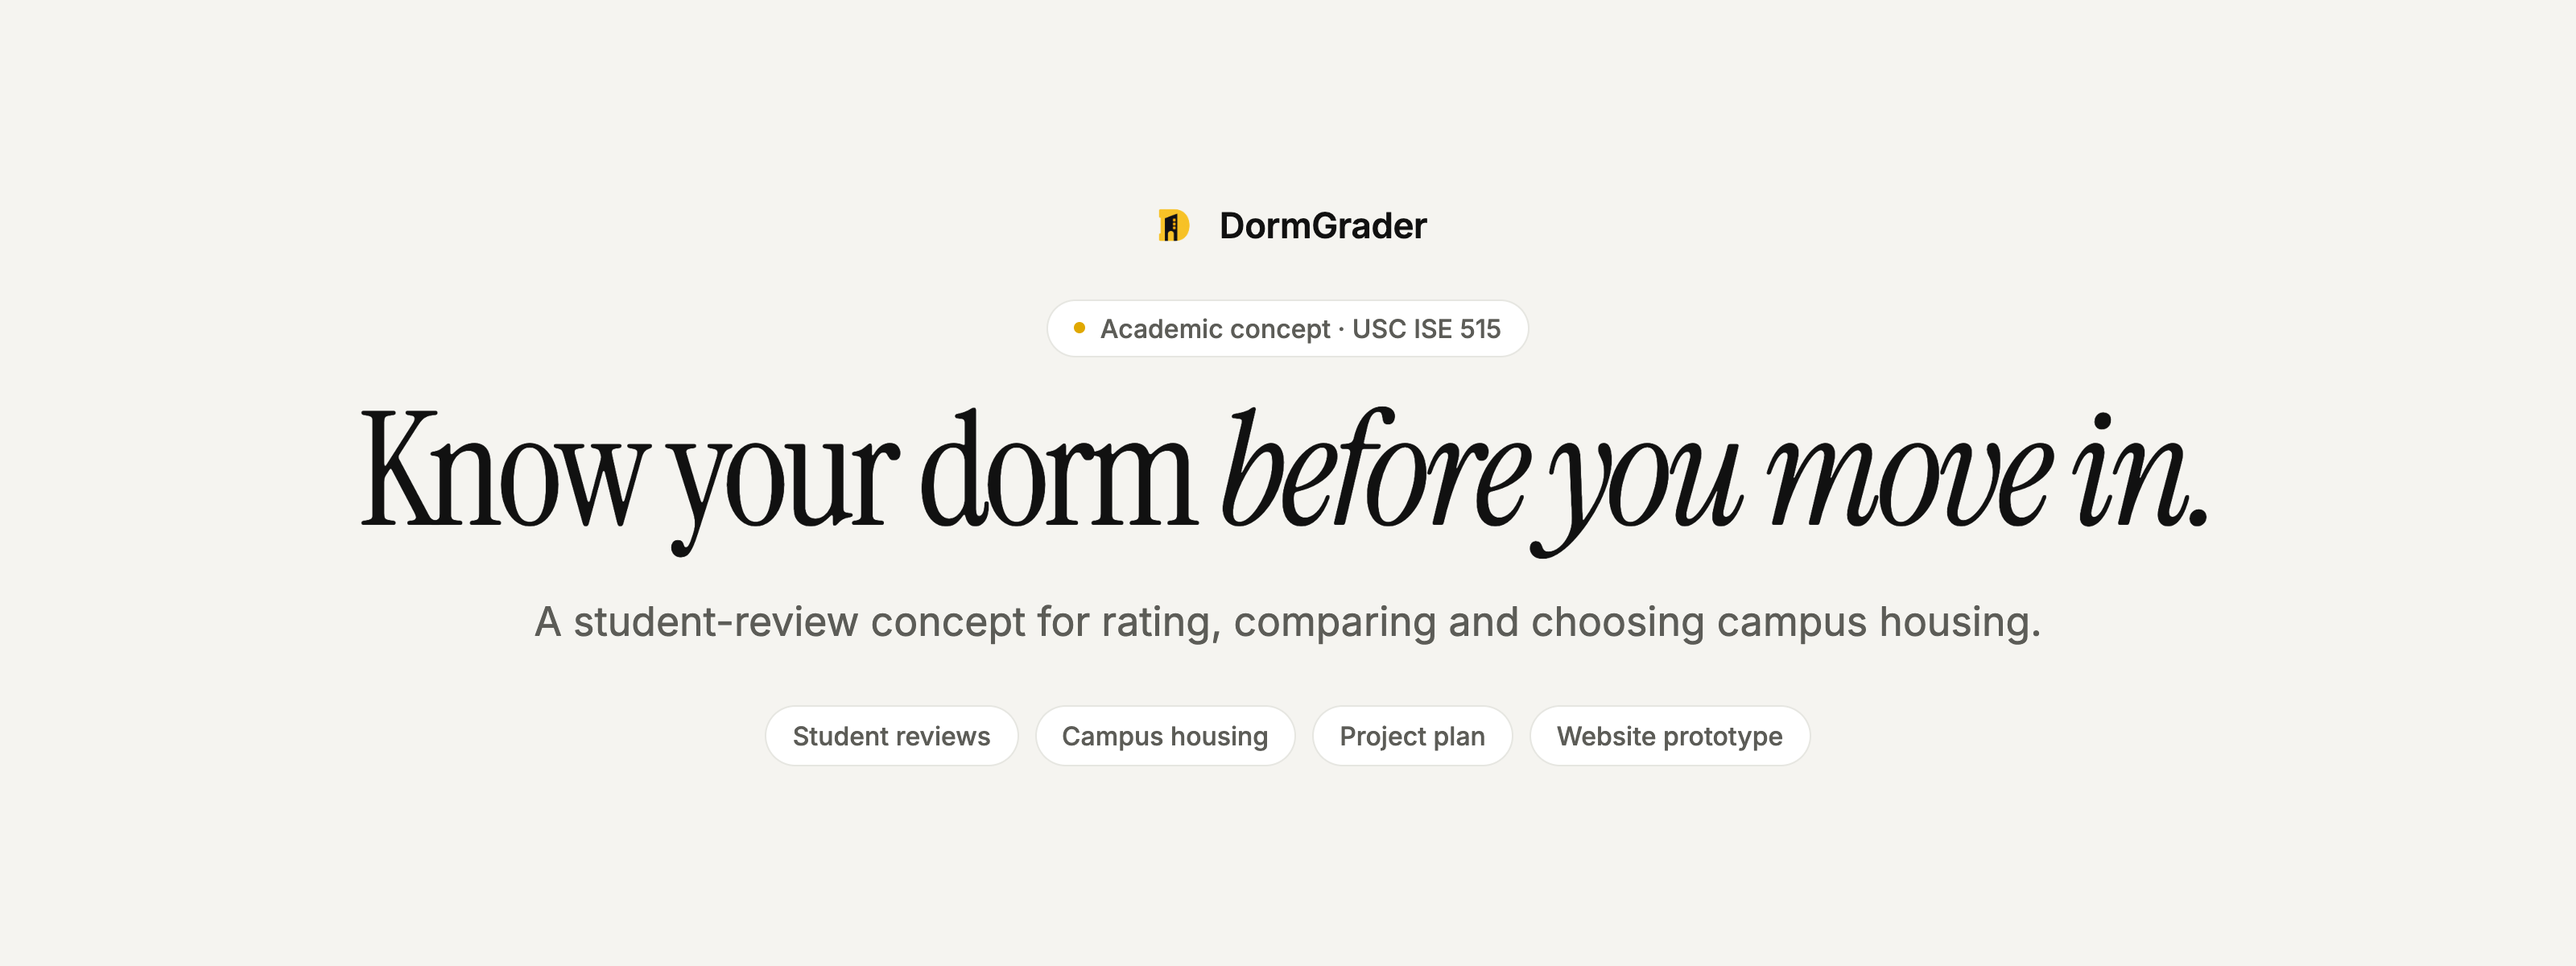
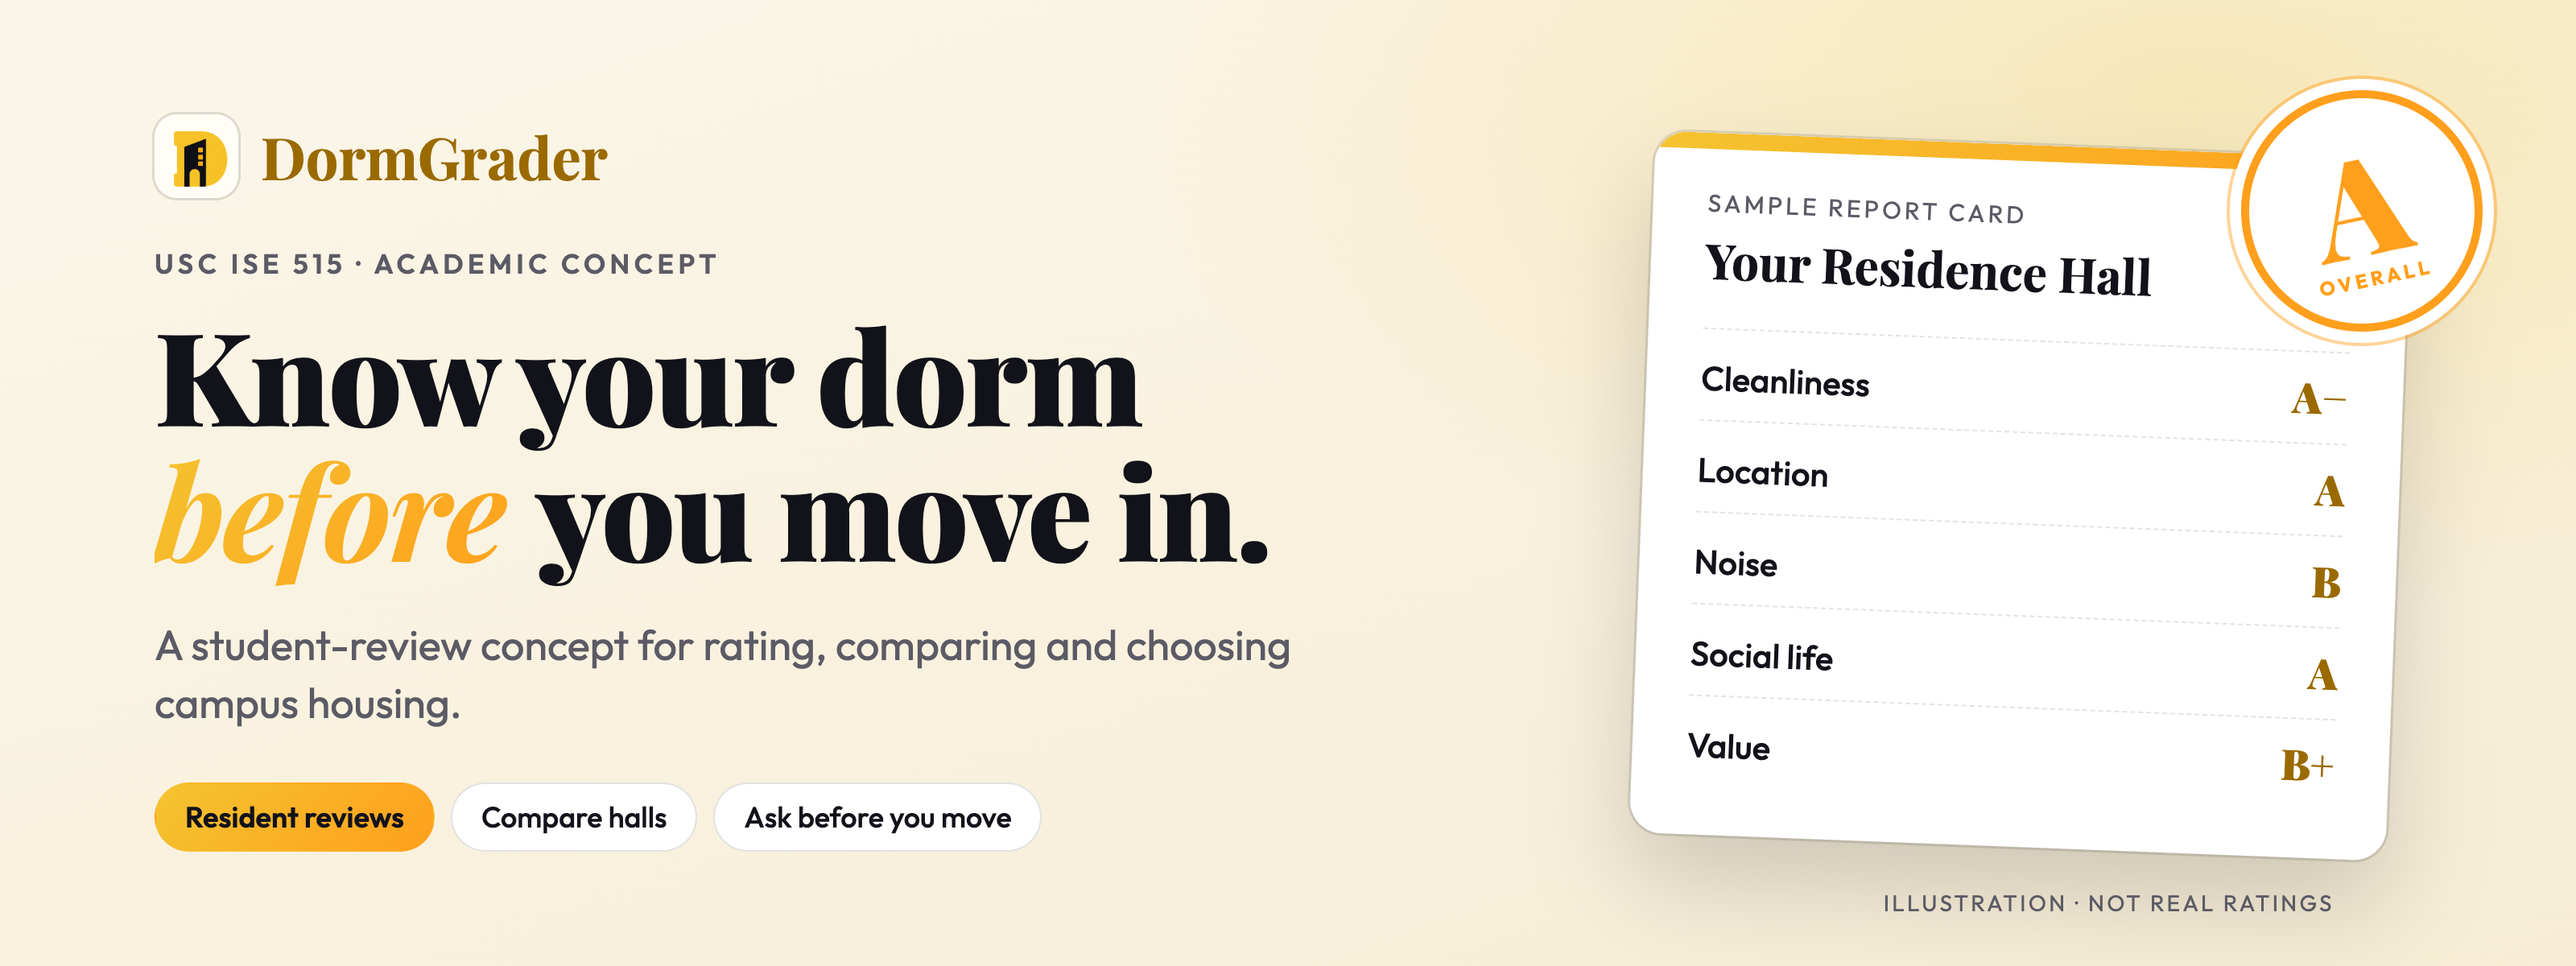
Give the README its own visual identity
Report-card banner: a tilted sample report card with letter grades for
the five rating categories and an "A overall" stamp, labelled as an
illustration. Playfair Display + Outfit and gold #f4c430 / amber #ff9f1c
on night #0a0a0f, matching the prototype. Badges recolored, banner
source committed under .github/assets/source.

diff --git a/.github/assets/source/banner.html b/.github/assets/source/banner.html
@@ -1,0 +1,67 @@
+<!doctype html>
+<html><head><meta charset="utf-8">
+<title>DormGrader banner</title>
+<link href="https://fonts.googleapis.com/css2?family=Playfair+Display:ital,wght@0,700;0,900;1,700&family=Outfit:wght@400;500;600;700&display=swap" rel="stylesheet">
+<style>
+/* DormGrader identity: the dorm report card. Colors and fonts from the live prototype's :root. */
+:root{
+  --bg:#fbf6e9; --bg2:#f6edd4; --ink:#12121a; --muted:#5b5a66; --gold:#f4c430; --amber:#ff9f1c; --goldtext:#9a6a00;
+  --card:#ffffff; --rule:rgba(18,18,26,.12); --tower:#12121a; --window:#ffb000;
+}
+@media (prefers-color-scheme: dark){:root{
+  --bg:#0a0a0f; --bg2:#1a1a2e; --ink:#fafafa; --muted:#a0a0b0; --goldtext:#f4c430;
+  --card:#12121a; --rule:rgba(250,250,250,.1); --tower:#1f1f30; --window:#f4c430;
+}}
+*{margin:0;padding:0;box-sizing:border-box}
+html,body{width:1600px;height:600px;overflow:hidden}
+body{font-family:Outfit,sans-serif;color:var(--ink);position:relative;
+  background:radial-gradient(70% 90% at 85% 10%,rgba(244,196,48,.22),transparent 60%),linear-gradient(160deg,var(--bg) 0%,var(--bg2) 100%)}
+.left{position:absolute;left:96px;top:0;bottom:0;width:910px;display:flex;flex-direction:column;justify-content:center}
+.brand{display:flex;align-items:center;gap:14px;margin-bottom:30px}
+.brand .mark{width:52px;height:52px;border-radius:14px;background:#fffdf6;display:grid;place-items:center;box-shadow:0 0 0 1.5px var(--rule)}
+.brand .mark img{width:56px;height:56px}
+.brand b{font-family:'Playfair Display';font-weight:700;font-size:36px;color:var(--goldtext)}
+.eyebrow{font-weight:600;font-size:17px;letter-spacing:.16em;text-transform:uppercase;color:var(--muted);margin-bottom:16px}
+h1{font-family:'Playfair Display';font-weight:900;font-size:80px;line-height:1.04;letter-spacing:-.015em}
+h1 em{font-style:italic;font-weight:700;background:linear-gradient(135deg,#f4c430,#ff9f1c);-webkit-background-clip:text;color:transparent;padding-right:6px}
+p{margin-top:26px;font-size:26px;line-height:1.4;color:var(--muted);max-width:720px}
+.chips{display:flex;gap:10px;margin-top:30px}
+.chips span{font-weight:500;font-size:18px;padding:9px 18px;border-radius:50px;border:1.5px solid var(--rule);background:var(--card)}
+.chips span:first-child{background:linear-gradient(135deg,#f4c430,#ff9f1c);color:#12121a;border-color:transparent;font-weight:600}
+/* report card */
+.rc{position:absolute;right:110px;top:90px;width:470px;background:var(--card);border-radius:20px;
+  box-shadow:0 30px 60px rgba(18,18,26,.18),0 0 0 1.5px var(--rule);transform:rotate(2.2deg);padding:30px 34px;overflow:hidden}
+.rc::before{content:"";position:absolute;left:0;right:0;top:0;height:10px;background:linear-gradient(90deg,#f4c430,#ff9f1c)}
+.rc h3{font-family:'Playfair Display';font-size:30px;font-weight:700;margin-top:6px}
+.rc .sub{font-size:15px;letter-spacing:.14em;text-transform:uppercase;color:var(--muted);margin-top:4px}
+.rc ul{list-style:none;margin-top:22px}
+.rc li{display:flex;justify-content:space-between;align-items:baseline;padding:15px 0;line-height:1;border-top:1.5px dashed var(--rule);font-size:21px;font-weight:500}
+.rc li i{font-style:normal;font-family:'Playfair Display';font-weight:900;font-size:26px;line-height:1;width:46px;text-align:right;color:var(--goldtext)}
+.stamp{position:absolute;right:58px;top:56px;width:150px;height:150px;border-radius:50%;border:5px solid var(--amber);
+  display:grid;place-items:center;transform:rotate(-12deg);background:var(--card);z-index:3;box-shadow:0 0 0 7px var(--card),0 0 0 9px rgba(255,159,28,.45)}
+.stamp b{font-family:'Playfair Display';font-weight:900;font-size:84px;line-height:1;color:var(--amber);margin-top:-14px}
+.stamp small{position:absolute;bottom:20px;font-size:12px;font-weight:700;letter-spacing:.2em;color:var(--amber)}
+.note{position:absolute;right:150px;bottom:30px;font-size:14px;letter-spacing:.12em;text-transform:uppercase;color:var(--muted)}
+</style></head>
+<body>
+<div class="left">
+  <div class="brand"><span class="mark"><img src="../../../assets/brand/logo.png" alt=""></span><b>DormGrader</b></div>
+  <div class="eyebrow">USC ISE 515 · Academic concept</div>
+  <h1>Know your dorm<br><em>before</em> you move in.</h1>
+  <p>A student-review concept for rating, comparing and choosing campus housing.</p>
+  <div class="chips"><span>Resident reviews</span><span>Compare halls</span><span>Ask before you move</span></div>
+</div>
+<div class="rc">
+  <div class="sub">Sample report card</div>
+  <h3>Your Residence Hall</h3>
+  <ul>
+    <li>Cleanliness<i>A−</i></li>
+    <li>Location<i>A</i></li>
+    <li>Noise<i>B</i></li>
+    <li>Social life<i>A</i></li>
+    <li>Value<i>B+</i></li>
+  </ul>
+</div>
+<div class="stamp"><b>A</b><small>OVERALL</small></div>
+<div class="note">Illustration · not real ratings</div>
+</body></html>

diff --git a/.github/assets/README.md b/.github/assets/README.md
@@ -6,9 +6,19 @@ Images used by the root [README](../../README.md) of DormGrader. They are presen
 
 | File | What it is |
 | --- | --- |
-| `banner-light.png`, `banner-dark.png` | Title banner for light and dark GitHub themes, rendered from an HTML template with headless Chromium |
+| `banner-light.png`, `banner-dark.png` | Title banner for light and dark GitHub themes, rendered from [`source/banner.html`](source/banner.html) with headless Chromium |
 | `hero.jpg` | Framed desktop and phone screenshot used at the top of the README |
 | `screenshots/features.jpg`, `top-dorms.jpg`, `how-it-works.jpg` | Sections of the website prototype. Statistics and dorm cards on the page are placeholder content |
+
+## Visual identity
+
+DormGrader's README borrows the language of a **report card**: student review sites grade housing the way a school grades a student, so the banner shows a tilted sample report card with letter grades for the five rating categories and an "A overall" stamp.
+
+- **Fonts:** Playfair Display (black and italic) for headlines and grades, Outfit for everything else, the same pair the website prototype uses.
+- **Colors:** gold `#f4c430` and amber `#ff9f1c` (the site's gold gradient), night `#0a0a0f` / card `#12121a` for the dark banner, warm paper `#fbf6e9` with ink `#12121a` for the light one. Gold text on paper uses the darker `#9a6a00` for contrast.
+- **Badges** use `f4c430`, `ff9f1c`, `12121a` and `a0a0b0`. The friendly emoji section headers stay, matching the consumer tone.
+- The grades are labelled "Sample" and "Illustration · not real ratings": DormGrader has no reviews.
+- **Re-render:** see [`source/README.md`](source/README.md).
 
 ## How they were made
 

diff --git a/README.md b/README.md
@@ -20,10 +20,10 @@
 </p>
 
 <p align="center">
-  <img alt="Status: academic concept" src="https://img.shields.io/badge/status-academic%20concept-6b6b6b?style=flat-square">
-  <img alt="Course: USC ISE 515" src="https://img.shields.io/badge/USC-ISE%20515-111111?style=flat-square">
-  <img alt="Single-file HTML prototype" src="https://img.shields.io/badge/prototype-single%20HTML%20file-111111?style=flat-square">
-  <img alt="License: none" src="https://img.shields.io/badge/license-none-6b6b6b?style=flat-square">
+  <img alt="Status: academic concept" src="https://img.shields.io/badge/status-academic%20concept-f4c430?style=flat-square">
+  <img alt="Course: USC ISE 515" src="https://img.shields.io/badge/USC-ISE%20515-12121a?style=flat-square">
+  <img alt="Single-file HTML prototype" src="https://img.shields.io/badge/prototype-single%20HTML%20file-ff9f1c?style=flat-square">
+  <img alt="License: none" src="https://img.shields.io/badge/license-none-a0a0b0?style=flat-square">
 </p>
 
 <p align="center">

diff --git a/.github/assets/source/README.md b/.github/assets/source/README.md
@@ -1,0 +1,17 @@
+# Banner source
+
+`banner.html` is the self-contained source of `../banner-light.png` and `../banner-dark.png`. It uses Google Fonts and CSS shapes, and switches palettes with `prefers-color-scheme`.
+
+## Re-render
+
+With Playwright's Chromium available, render at 1600 × 600 and 2× scale, once per color scheme (the README kit's `render-html.mjs` does this):
+
+```bash
+node render-html.mjs .github/assets/source/banner.html .github/assets/banner-light.png --scheme light
+node render-html.mjs .github/assets/source/banner.html .github/assets/banner-dark.png --scheme dark
+```
+
+## Notes for agents
+
+- Keep the "Sample report card" and "Illustration · not real ratings" labels: DormGrader has no users or reviews. The logo is loaded from `../../../assets/brand/logo.png`, so render from this folder layout.
+- Colors and fonts are documented in [`../README.md`](../README.md). Check both PNGs for overflow after any edit.
